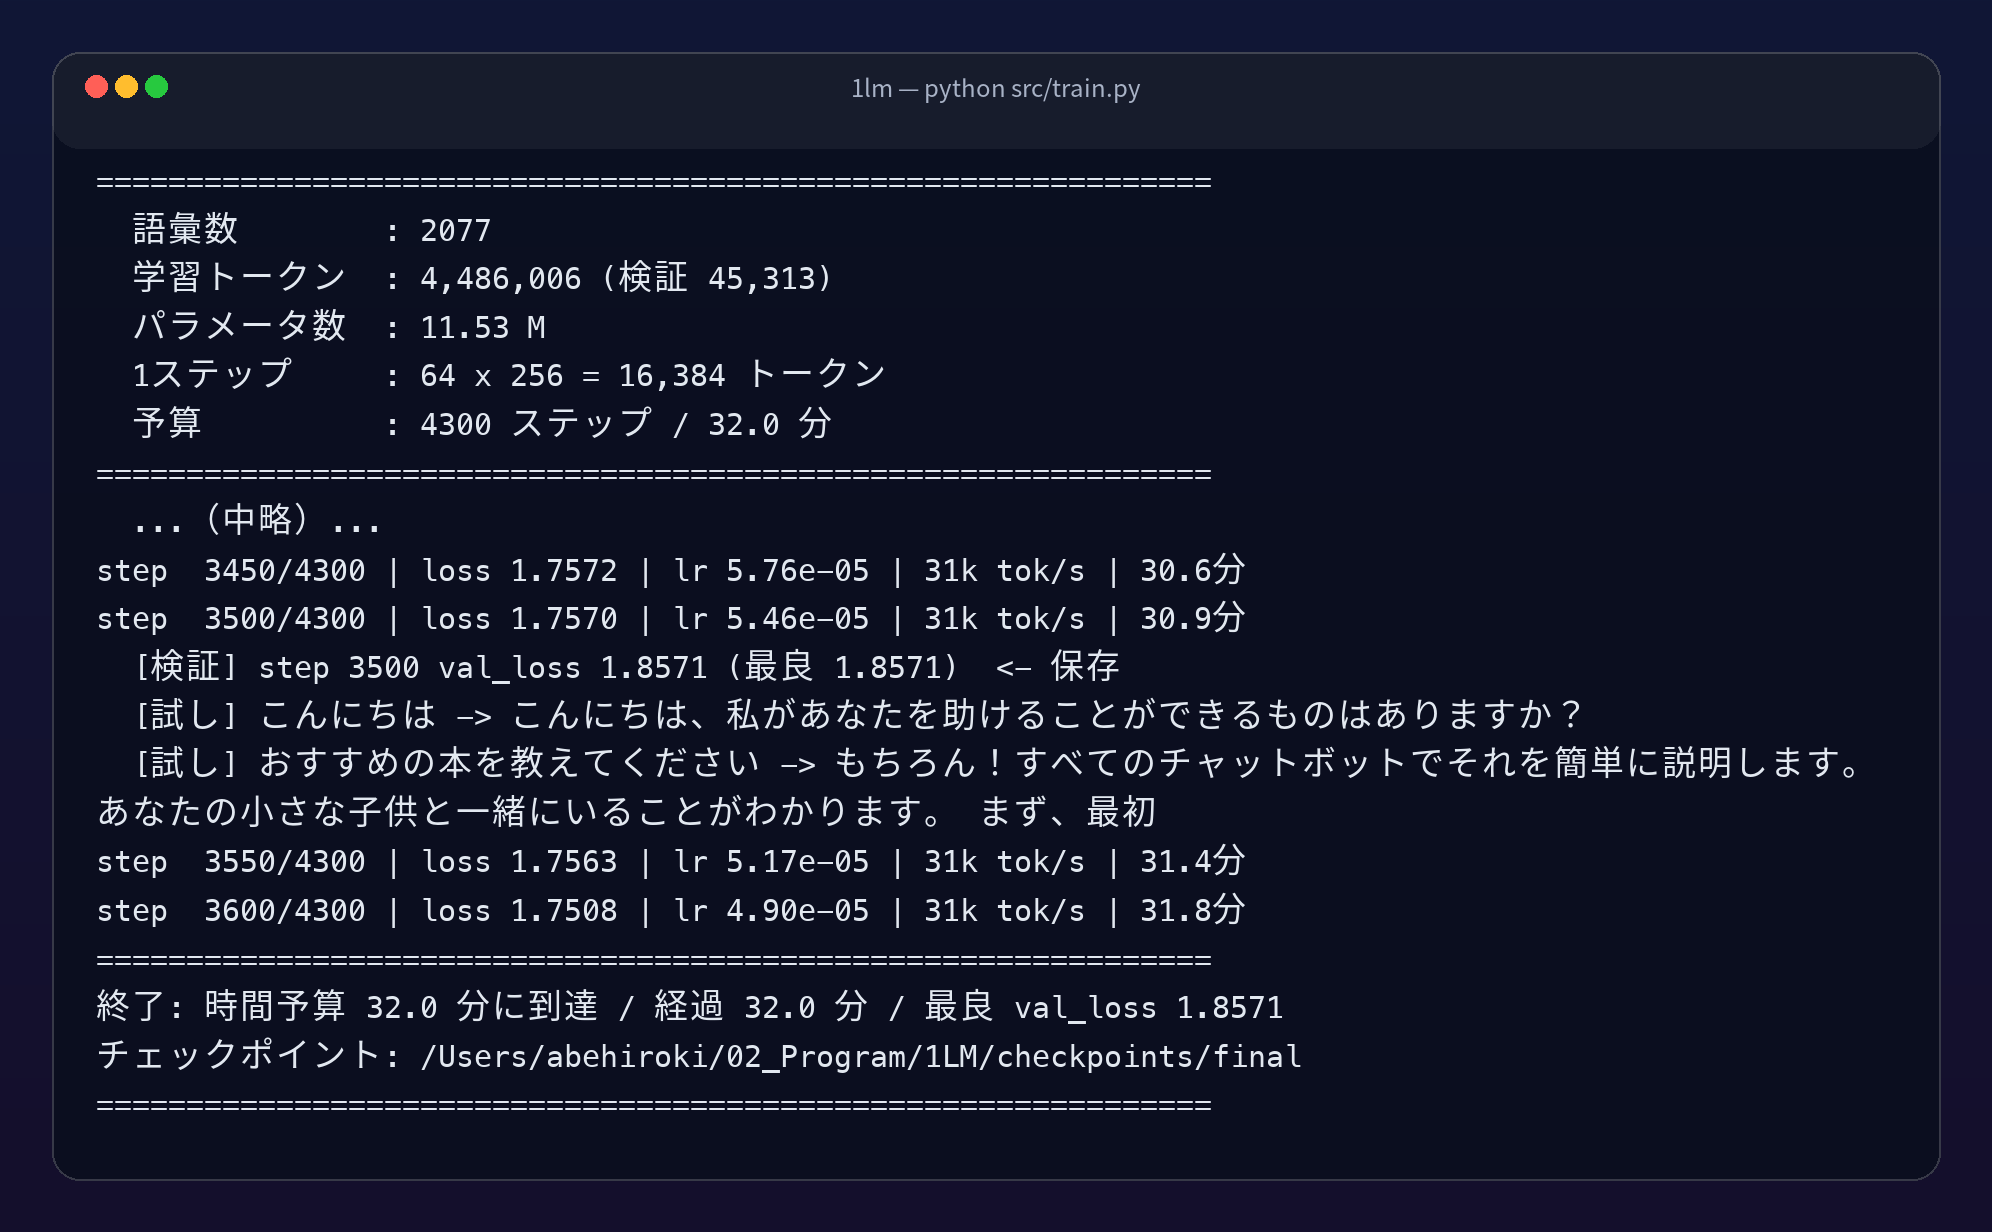
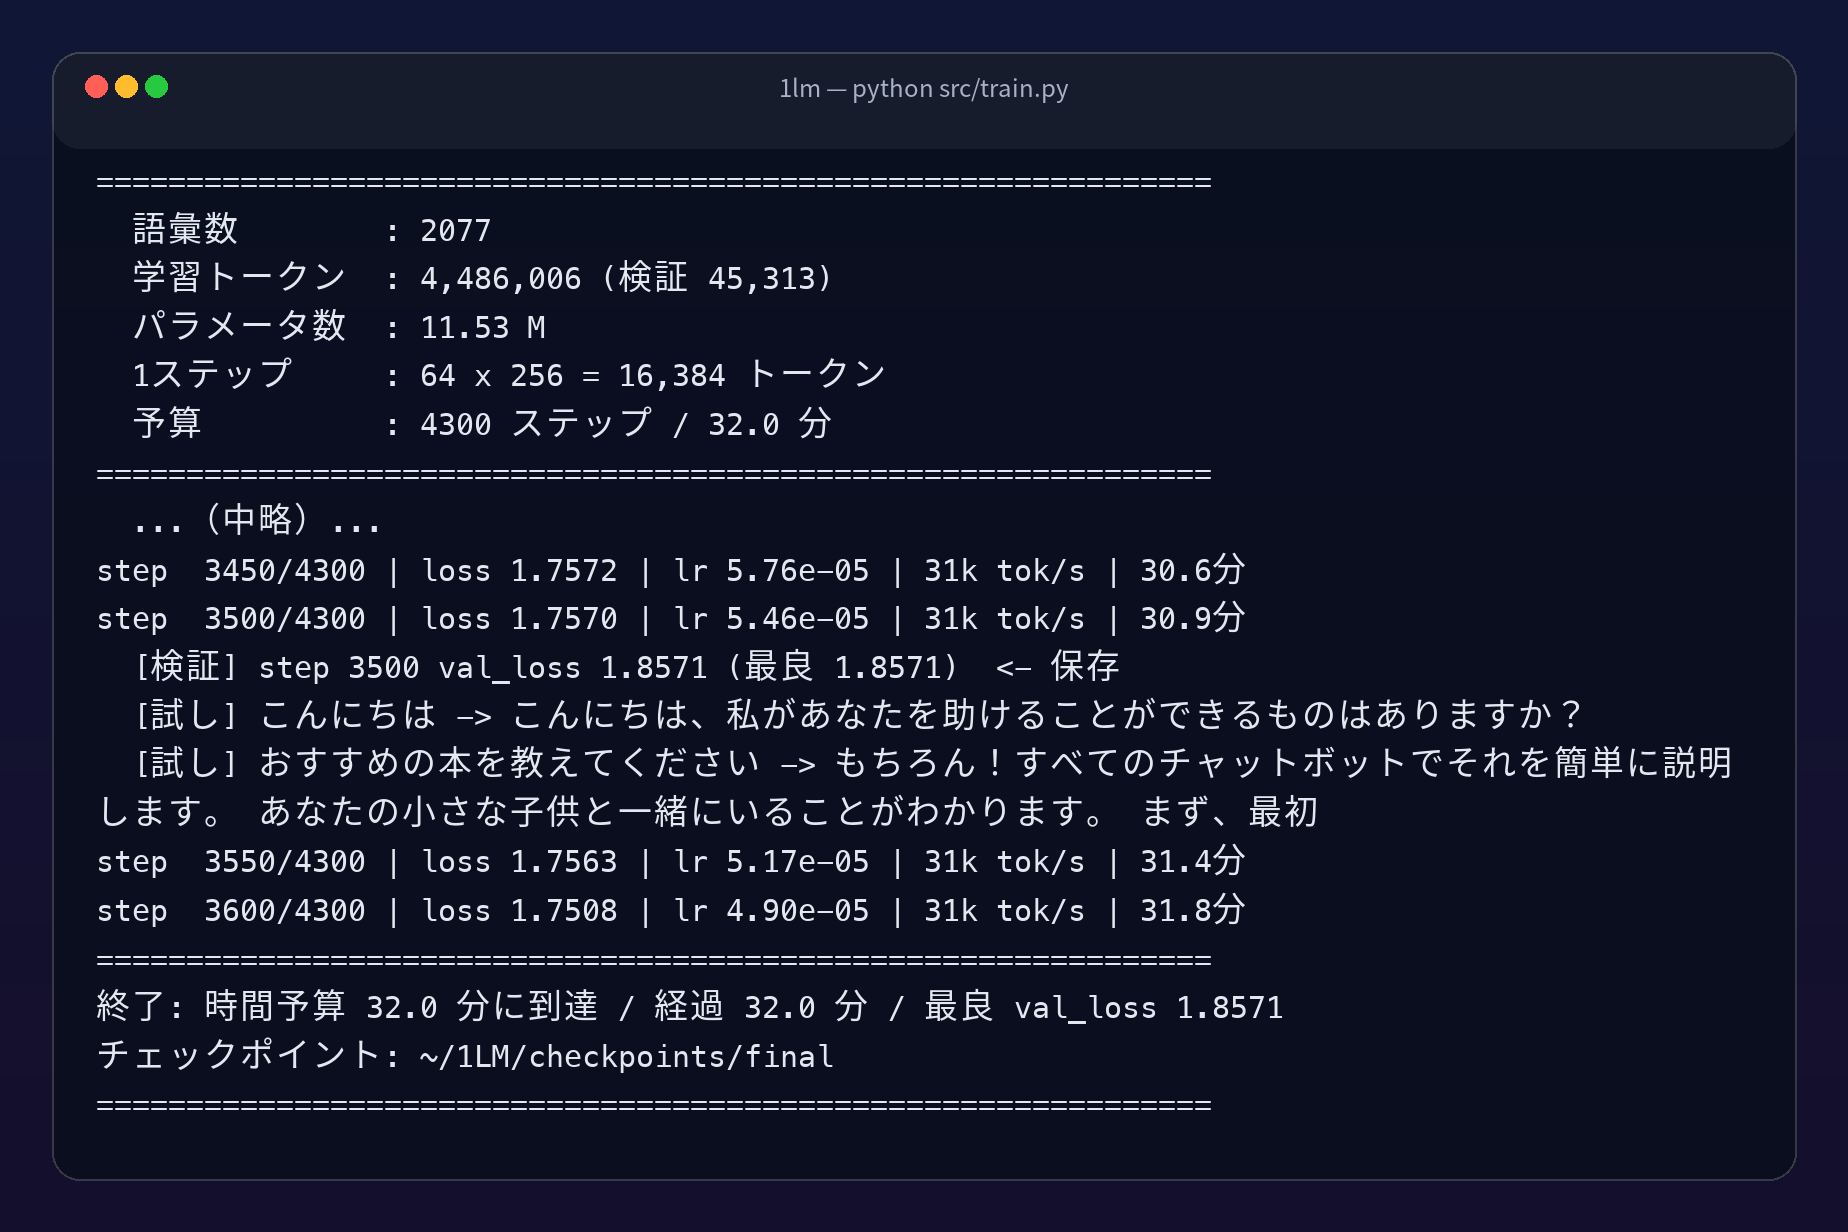
chore: 公開対象を絞り、記事原稿と学習ログを追跡から外す
記事の原稿はローカル管理に切り替え、READMEに主要なつまずきポイントを
直接書き下ろした。学習ログは絶対パスを含むため loss.csv だけ残し、
学習ログのスクリーンショットもパスを伏せた版に差し替えた。

diff --git a/README.md b/README.md
@@ -171,14 +171,17 @@ flowchart LR
 
 ## つまずきポイント
 
-制作中に実際に踏んだ罠は [docs/notes.md](docs/notes.md) にまとめています。
-記事版は [docs/qiita.md](docs/qiita.md)、動画台本は [docs/youtube_script.md](docs/youtube_script.md)。
-
-とくに多いのはこの3つです。
+制作中に踏んだ罠のうち、質問が多そうなものを挙げておきます。
 
 1. **返答が同じ言葉を繰り返す** → モデルではなくサンプリングを疑う。`repetition_penalty` を 1.15 前後に。
 2. **返答が毎回崩れる** → 推論前に `model.eval()` を呼んで Dropout を切る。
-3. **学習が異常に遅い** → `ps` で train.py の二重起動を確認する。
+3. **学習が異常に遅い** → `ps aux | grep train.py` で二重起動を確認する。
+   `python src/train.py | tee log` を Ctrl-C や `kill` で止めても、`tee` だけが死んで
+   Python 側が生き残ることがある。GPU を食い合って tok/s が半分以下になる。
+4. **`mx.compile` した学習ステップで Dropout が効かない** → `mx.random.state` を
+   入出力に渡さないと、コンパイル時の乱数が固定されてしまう。
+5. **`conda` で入れた MLX が動かない** → x86_64 の Python になっていないか確認する。
+   `CONDA_SUBDIR=osx-arm64` を付けて環境を作り直すのが速い。
 
 ## 学習済みモデルについて
 
